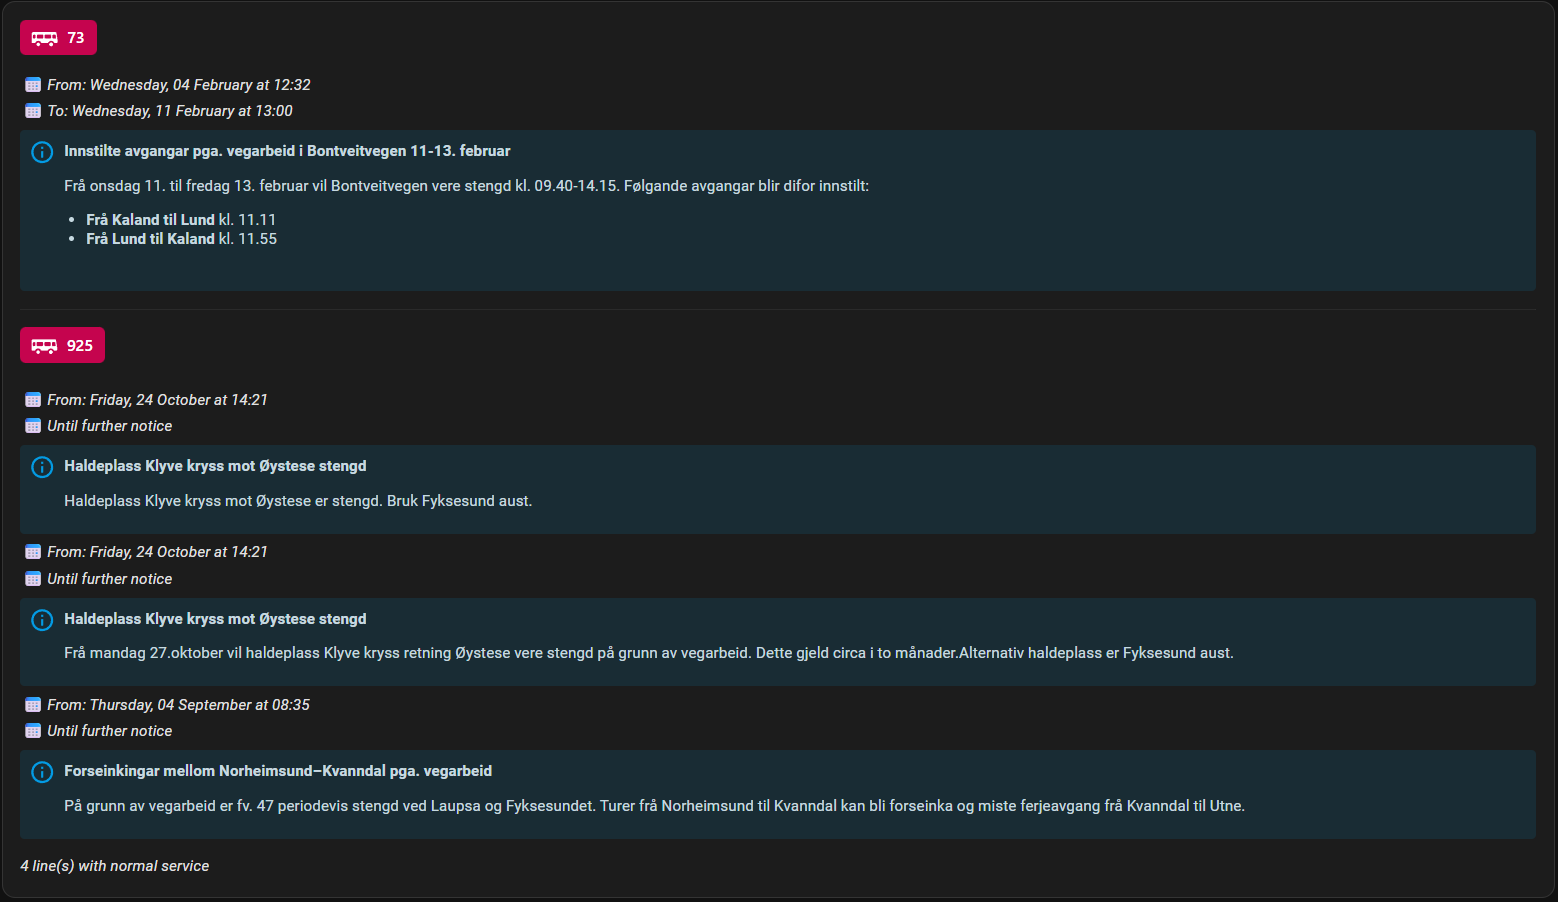
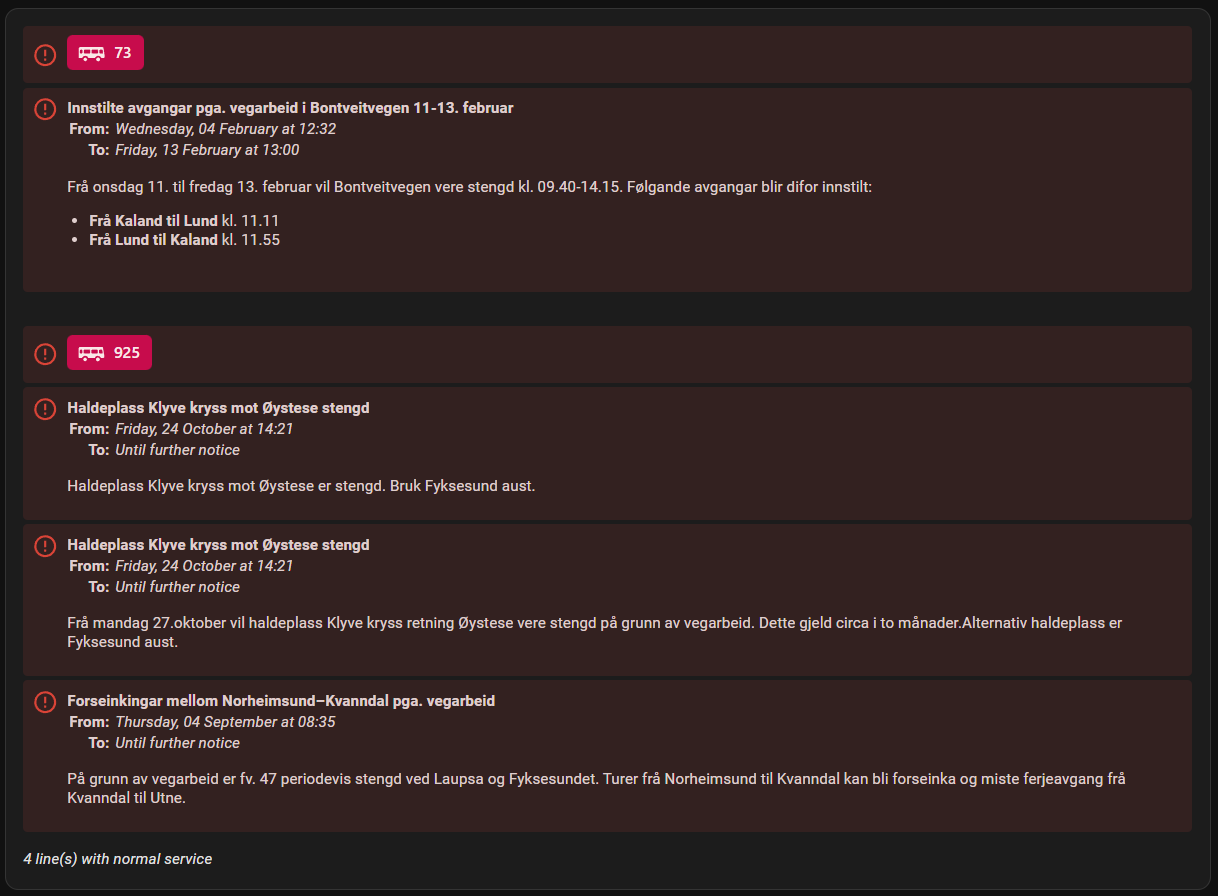
Update repository links and codeowner references to reflect new ownership

diff --git a/README.md b/README.md
@@ -1,9 +1,10 @@
 # Entur Situation Exchange Custom Integration
 
-[![hacs_badge](https://img.shields.io/badge/HACS-Custom-orange.svg)](https://github.com/DTekNO/ha-entur_sx)
-[![Validate with HACS](https://github.com/DTekNO/ha-entur_sx/actions/workflows/validate.yaml/badge.svg)](https://github.com/DTekNO/ha-entur_sx/actions/workflows/validate.yaml)
-[![GitHub Release](https://img.shields.io/github/release/DTekNO/ha-entur_sx.svg)](https://github.com/DTekNO/ha-entur_sx/releases)
-![Project Maintenance](https://img.shields.io/maintenance/yes/2026.svg)
+[![hacs][hacs-badge]][hacs-url]
+[![Validate with HACS][hacs-validation-badge]][hacs-validation-url]
+[![release][release-badge]][release-url]
+![Maintenance][maintenance-badge]
+![downloads][downloads-badge]
 
 Stay ahead of transport delays and disruptions across Norway! This Home Assistant custom integration monitors real-time service deviations from Entur.no, alerting you to delays, cancellations, and route changes on your regular transit lines.
 
@@ -563,3 +564,13 @@ This project is licensed under the MIT License.
 - Original AppDaemon version by Jeremy Cook
 - Converted to native Home Assistant custom integration
 - Data provided by [Entur AS](https://entur.no)
+
+<!-- Badge definitions -->
+[hacs-badge]: https://img.shields.io/badge/HACS-Custom-orange.svg
+[hacs-url]: https://github.com/DTekNO/ha-entur_sx
+[hacs-validation-badge]: https://github.com/DTekNO/ha-entur_sx/actions/workflows/validate.yaml/badge.svg
+[hacs-validation-url]: https://github.com/DTekNO/ha-entur_sx/actions/workflows/validate.yaml
+[maintenance-badge]: https://img.shields.io/maintenance/yes/2026.svg
+[release-badge]: https://img.shields.io/github/release/DTekNO/ha-entur_sx.svg
+[release-url]: https://github.com/DTekNO/ha-entur_sx/releases
+[downloads-badge]: https://img.shields.io/github/downloads/DTekNO/ha-entur_sx/total

diff --git a/CARD_EXAMPLES.md b/CARD_EXAMPLES.md
@@ -715,7 +715,7 @@ automation:
 ## Need Help?
 
 - Check the [main README](README.md) for integration setup
-- Report issues on [GitHub](https://github.com/jm-cook/ha-entur_sx/issues)
+- Report issues on [GitHub](https://github.com/DTekNO/ha-entur_sx/issues)
 - The entity attributes available:
   - `line_ref` - The line reference (e.g., "SKY:Line:1")
   - `valid_from` - When the disruption starts

diff --git a/brands/CHECKLIST.md b/brands/CHECKLIST.md
@@ -48,7 +48,7 @@ Based on Entur AS official app icon design. Entur branding used with respect to 
 
 **Links:**
 - Entur official branding: https://linje.entur.no/identitet/verktoykassen/logo
-- Integration repository: https://github.com/jm-cook/ha-entur_sx
+- Integration repository: https://github.com/DTekNO/ha-entur_sx
 ```
 
 ## Verification
